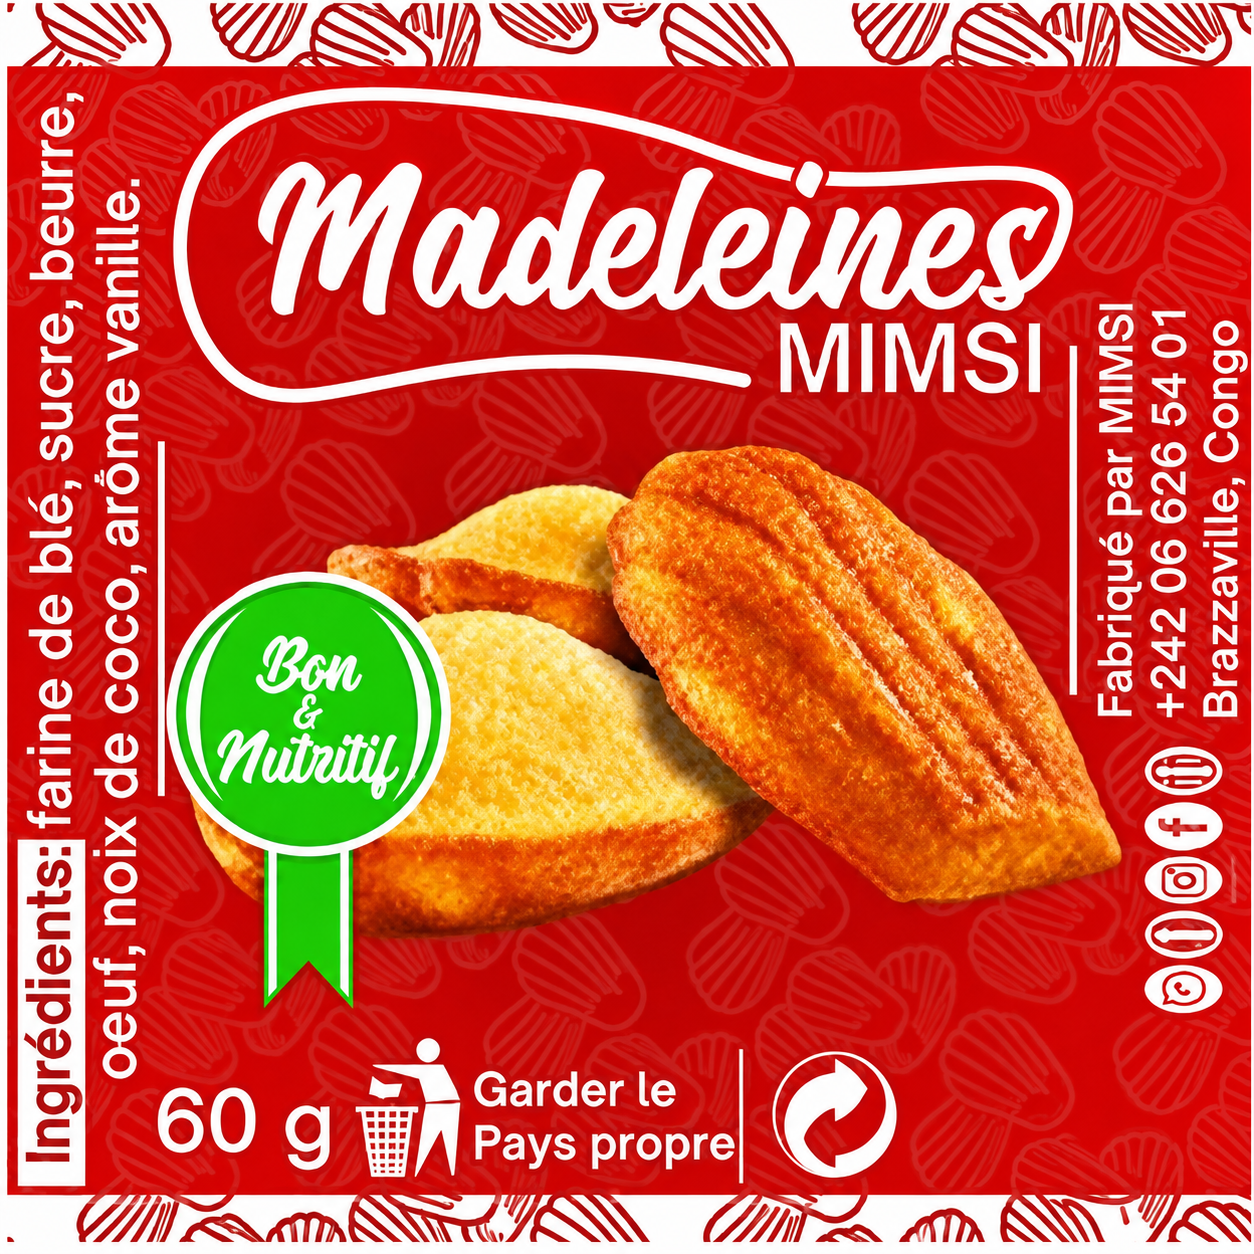
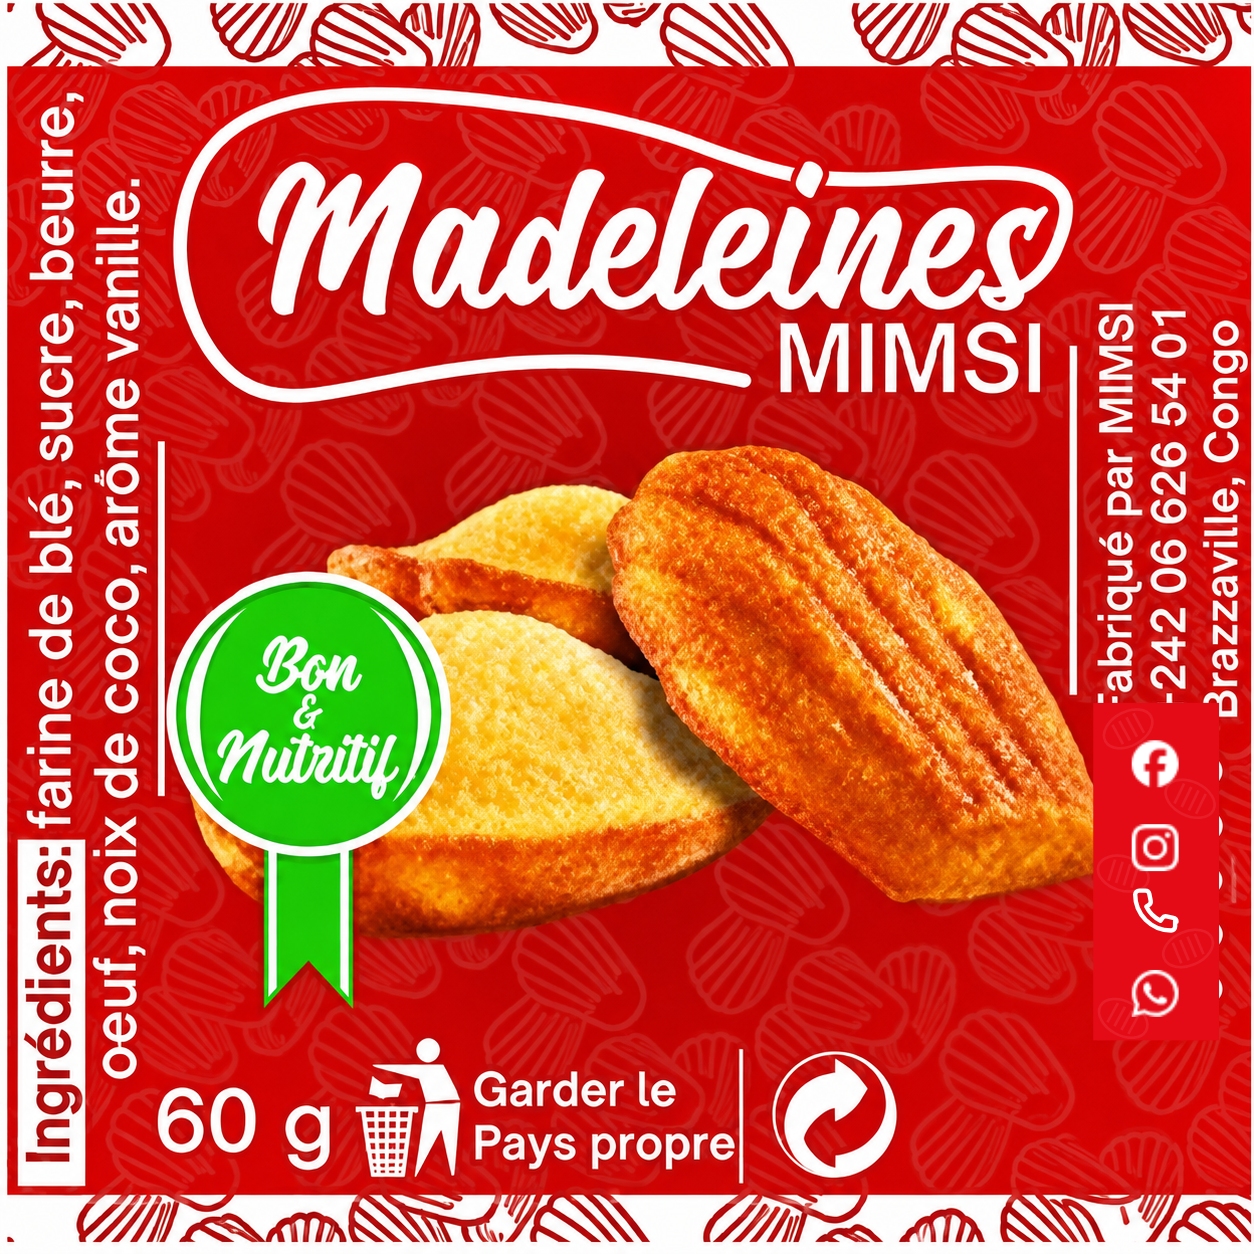
fix: normaliser les icônes de contact de l’étiquette

Changed region(s): [[0.8708, 0.5598, 0.9952, 0.8397]]

diff --git a/public/sw.js b/public/sw.js
@@ -1,4 +1,4 @@
-const CACHE_NAME = 'mimsi-distribution-v86';
+const CACHE_NAME = 'mimsi-distribution-v87';
 const PHOTO_CACHE_NAME = 'mimsi-attendance-photos-v1';
 const PRECACHE_URLS = [
   '/',
